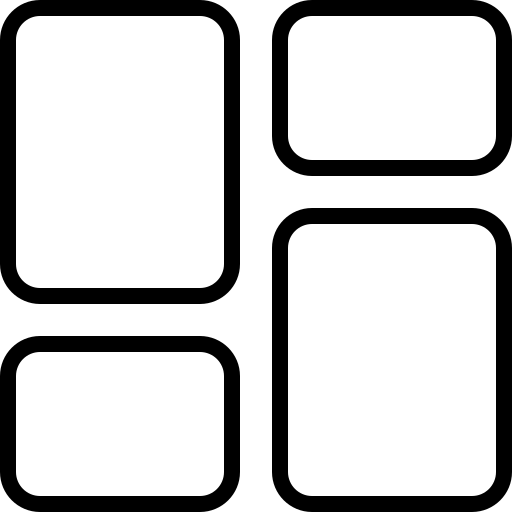
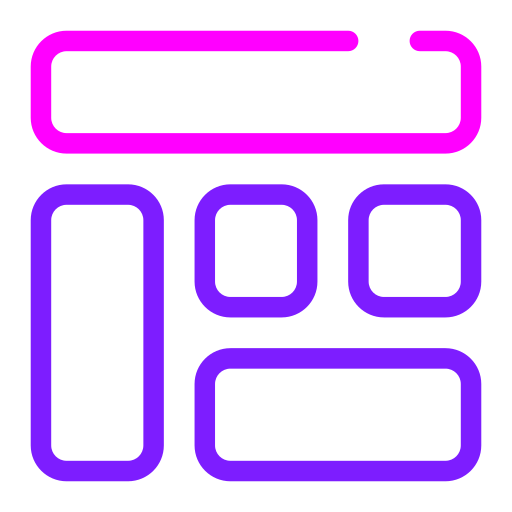
the UI changes

diff --git a/frontend/src/component/projects.js b/frontend/src/component/projects.js
@@ -42,7 +42,7 @@ const Project = (props) => {
               </div>
 
               <div className="prjTitle">
-                <h2>{props.title || <Skeleton />}</h2>
+                <h2> {props.title || <Skeleton />}</h2>
               </div>
 
               <div className="description">
@@ -233,19 +233,22 @@ function Projects() {
                                         ))
                                       }
                                   </div>
-        
-                                  <div className="users-project-completed">
+
+
+                                    <div className="users-project-completed">
                                       <div className="users-project-header-completed">
                                               <h2>Completed   ({number_completed})</h2>
                                           </div> 
         
                                           {
                                         projectData.filter(data=> (data.status === "completed") && (data.owner === userId || (data.members.includes(name)))).slice().reverse().map((data)=>(
-                                          <Project key={data.id}  id={data.id} owner={data.owner} title={data.projectTitle} description={data.description} img={data.image}   tags={data.tags}/>
-                                          
+                                          <Project key={data.id} id={data.id} owner={data.owner} title={data.projectTitle} description={data.description} img={data.image}   tags={data.tags}/>
                                         ))
                                       }
-                                  </div>                          
+                                  </div>
+
+        
+                                                      
                         </div>
                
 

diff --git a/frontend/src/styles/prodData.css b/frontend/src/styles/prodData.css
@@ -42,7 +42,7 @@
 .prodData-Task{
     margin: 30px;
     width: auto;
-    height: 60vh;
+    height: 70vh;
     overflow-x: auto;
     border-radius: 10px;
  }
@@ -55,10 +55,10 @@
   }
  .prodData-Task table{
     width: 100%;
-    border-collapse: collapse;
+   
     font-size: 18px;
     
-  
+   padding: 0 10px 0 10px;
    
    
 }
@@ -70,18 +70,35 @@
 .prodData-Task th {
     background-color: #2A2836;
     color: white;
+     font-size: 25px;
+    padding: 10px;
   
 }
-.prodData-Task td{
-    border-bottom: 1px solid gray;
+.prodData-Task th:first-child{
+    border-top-left-radius: 15px;
     
 }
+.prodData-Task th:last-child{
+    border-top-right-radius: 15px;
+    
+}
+.prodData-Task td{
+    background-color: #38374F;
+    border-left: 2px solid gray;
+  
+}
+.prodData-Task td:nth-child(1){
+    border-bottom-left-radius: 10px;
+    border-top-left-radius: 10px;
+    border-left: 10px solid rgb(5, 255, 59);
+}
+
 .prodData-Task table,
 .prodData-Task td,
 .prodData-Task th {
-     padding: 10px;
-    
-}
+    border-spacing: 0px 1rem;
+   
+}  
  
 
 .prodData-Task td:nth-child(2){
@@ -153,6 +170,7 @@
     align-items: center;
     gap: 10px;
    
+    color: white;
 }
 
 .assign-user-profile img{
@@ -161,10 +179,11 @@
 }
 
 .prodData-status p{
-    background-color: #FFF7E6;
-    border-radius: 10px;
-    color: orange;
+    background-color: #00ff04fb;
+    border-radius: 5px;
+    color: rgb(255, 255, 255);
      text-align: center;
+     margin: 10px;
 }
 .prodData-date{
     text-align: center;
@@ -219,3 +238,5 @@
     background-color: #cacaca;
     color: rgb(0, 0, 0);
   }
+
+ 

diff --git a/frontend/src/styles/project.css b/frontend/src/styles/project.css
@@ -11,7 +11,7 @@
       height: auto;
      
        
-     background-color: #242230;
+     background-color: #272638;
        }
 
     .project-content .header{
@@ -85,8 +85,7 @@
       cursor: pointer;
       border: 1px solid gray;
       border-radius: 5px;
-      background-color: #24212f;
-      box-shadow: 2px 2px 2px 2px rgba(0, 0, 0, 0.5);
+         box-shadow: 2px 2px 2px 2px rgba(0, 0, 0, 0.5);
 
     
     }
@@ -117,8 +116,11 @@
     .project .prjTitle{
       padding-left: 10px;
       padding-right: 10px;
+   
+     
+      
     }
-
+    
     .project-tags {
       display: flex;
       margin: 10px;
@@ -129,14 +131,21 @@
       display: flex;
       justify-content: center;
       align-items: center;
-      background-color: orange;
+      background-color:  #FFB930;
       width: 80px;
       height: 30px;
       margin-right: 10px;
       text-align: center;
       border-radius: 5px;
     }
-    
+    .project-tags div:nth-child(2){
+      background-color:#bb0eca;
+     
+    }
+
+    .project-tags div  p {
+      color: rgb(255, 255, 255);
+    }
 
   
     
@@ -156,7 +165,7 @@
     }
 
 
-    .users-project-working h2 ,  .users-project-progress h2 ,.users-project-header-completed h2 {
+    .users-project-working h2 ,  .users-project-progress h2 ,.users-project-completed h2 {
       font-size: 15px;
       color: #ffffff;
       margin-left: 15px;
@@ -245,7 +254,7 @@
   .project-inLoading{
     width:80%;
     min-height: 260px;
-    background-color: #e8e6e6;
+    background-color: #ffffffa9;
     border-radius:5px;
     padding: 15px;
     cursor: progress;

diff --git a/frontend/src/component/prodData.js b/frontend/src/component/prodData.js
@@ -283,7 +283,7 @@ function ProductData(){
                                         {
                                             
                                               task.filter(data => data.projId === parseInt(prodId)).slice().reverse().map((data) => (
-                                                <tr key={data.id} > 
+                                                <tr key={data.id}  > 
                                                     <td className="details-cell">{data.details}</td>
                                                     <td  className='assign-user-profile'>
                                                         <div>

diff --git a/frontend/src/styles/profile.css b/frontend/src/styles/profile.css
@@ -10,7 +10,7 @@
     width: 85%;  
     margin: 5px;
     border-radius: 10px;
-    background-color: #ffffff;
+    background-color:#242230;
 }
 
 .profile-user-details{
@@ -45,6 +45,7 @@
 }
 .profile-name label{
     font-size: 22px;
+    color: white;
 }
 .profile-name input{
     width: 100%;
@@ -70,5 +71,13 @@
 }
 
 .user-names h2{
-    border-bottom: 1px solid black;
+    border-bottom: 1px solid gray;
+    color: white;
+}
+.edit-user-form input{
+    background-color:#242230;
+    color: white;
+    border: none;
+    outline: none;
+    border-bottom: 1px solid gray;
 }

diff --git a/frontend/src/styles/sidebar.css b/frontend/src/styles/sidebar.css
@@ -1,6 +1,6 @@
 .sidebar {
    width: 15%;
-   min-height:95vh;
+   min-height:100vh;
    background-color:#2B2936;
  
    
@@ -46,7 +46,7 @@
  }
  
  .sidebar-oparation  div:hover {
-   background-color: #FFF4EE;
+   background-color: #66446c;
    cursor: pointer;
    border-right-color: #FD8648;
    color: #FD8648; /* Set the color when hovering over the entire div */
